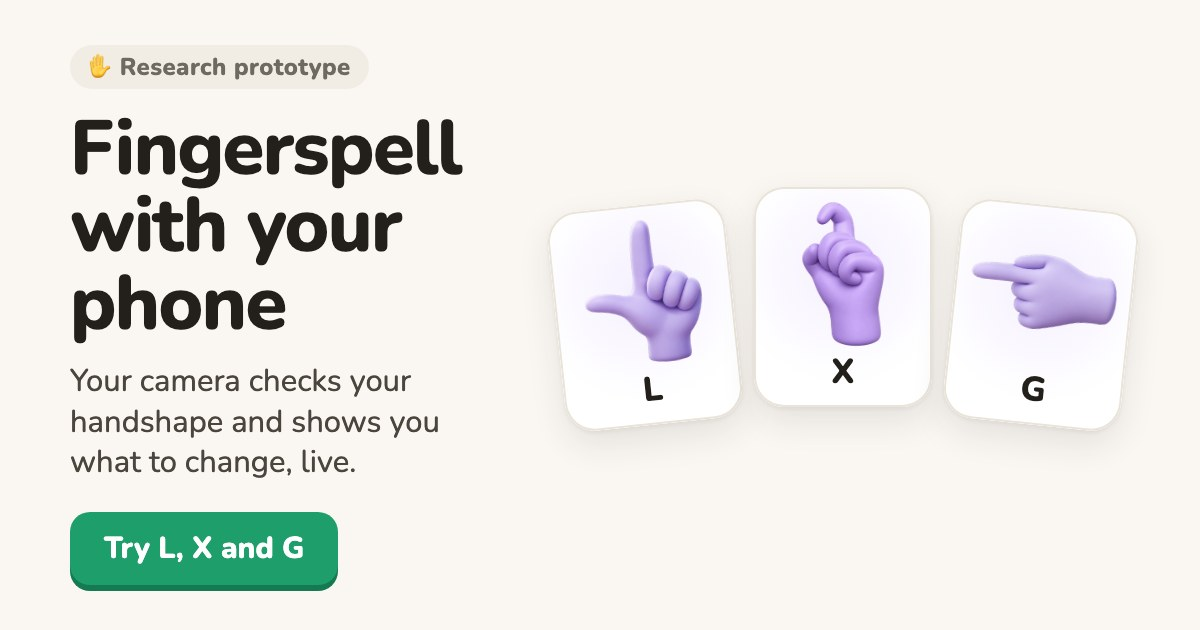
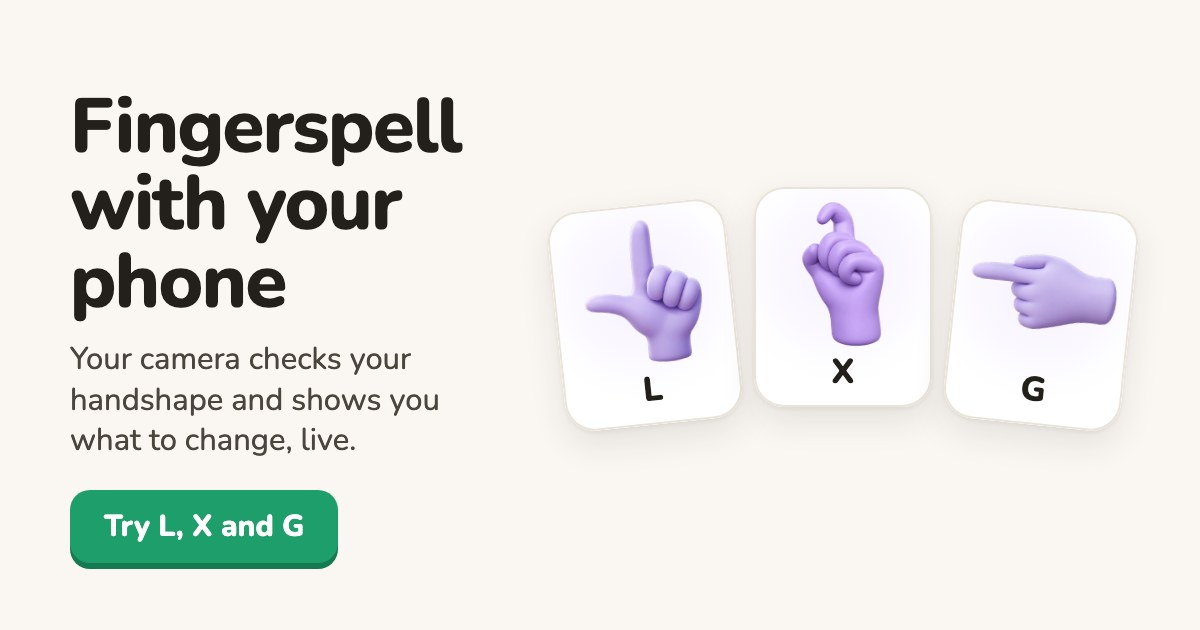
As of physical-tutor branch mobile 9ec5f9b: no Research prototype badge

Changed region(s): [[0.0308, 0.1508, 0.4008, 0.9651], [0.0617, 0.0905, 0.3083, 0.1206]]

diff --git a/index.html b/index.html
@@ -16,9 +16,9 @@
 <meta property="og:type" content="website">
 <meta property="og:site_name" content="Fingerspelling practice">
 <meta property="og:title" content="Fingerspell with your phone">
-<meta property="og:description" content="Your camera checks your handshape and shows you what to change, live. A research prototype: nothing is recorded or saved.">
+<meta property="og:description" content="Your camera checks your handshape and shows you what to change, live. Nothing is recorded or saved.">
 <meta property="og:url" content="https://shadowcoder1.github.io/asl-fingerspelling-mobile/">
-<meta property="og:image" content="https://shadowcoder1.github.io/asl-fingerspelling-mobile/mobile/share/og.jpg">
+<meta property="og:image" content="https://shadowcoder1.github.io/asl-fingerspelling-mobile/mobile/share/og.jpg?v=2">
 <meta property="og:image:width" content="1200">
 <meta property="og:image:height" content="630">
 <meta property="og:image:alt" content="Three purple glove hands making the letters L, X and G, beside the words Fingerspell with your phone.">
@@ -84,7 +84,6 @@ setTimeout(bootFail, 25000);
 <!-- 1. Welcome: what this is, and the one button. The hand tracker downloads while this is read. -->
 <section class="screen screen-welcome" id="welcome" aria-labelledby="welcome-title">
   <div class="welcome-inner">
-    <p class="pill"><span aria-hidden="true">✋</span> Research prototype</p>
     <div class="hero" id="hero" aria-hidden="true" data-default="LXG">
       <div class="hero-tile hero-glove"><img src="assets/gloves/L.png" alt="" fetchpriority="high"><b>L</b></div>
       <div class="hero-tile hero-glove"><img src="assets/gloves/X.png" alt="" fetchpriority="high"><b>X</b></div>
@@ -175,7 +174,7 @@ setTimeout(bootFail, 25000);
   <div class="results-cta">
     <button type="button" class="btn btn-primary" id="btn-again">Practice again</button>
     <button type="button" class="btn btn-secondary" id="btn-share">Share this demo</button>
-    <p class="fineprint">Research prototype: the grading is approximate and can be wrong. This teaches fingerspelling handshapes, not ASL; to learn ASL, learn from Deaf teachers.</p>
+    <p class="fineprint">The grading is approximate and can be wrong. This teaches fingerspelling handshapes, not ASL; to learn ASL, learn from Deaf teachers.</p>
   </div>
 </section>
 

diff --git a/mobile/index.html b/mobile/index.html
@@ -16,9 +16,9 @@
 <meta property="og:type" content="website">
 <meta property="og:site_name" content="Fingerspelling practice">
 <meta property="og:title" content="Fingerspell with your phone">
-<meta property="og:description" content="Your camera checks your handshape and shows you what to change, live. A research prototype: nothing is recorded or saved.">
+<meta property="og:description" content="Your camera checks your handshape and shows you what to change, live. Nothing is recorded or saved.">
 <meta property="og:url" content="https://shadowcoder1.github.io/asl-fingerspelling-mobile/">
-<meta property="og:image" content="https://shadowcoder1.github.io/asl-fingerspelling-mobile/mobile/share/og.jpg">
+<meta property="og:image" content="https://shadowcoder1.github.io/asl-fingerspelling-mobile/mobile/share/og.jpg?v=2">
 <meta property="og:image:width" content="1200">
 <meta property="og:image:height" content="630">
 <meta property="og:image:alt" content="Three purple glove hands making the letters L, X and G, beside the words Fingerspell with your phone.">
@@ -84,7 +84,6 @@ setTimeout(bootFail, 25000);
 <!-- 1. Welcome: what this is, and the one button. The hand tracker downloads while this is read. -->
 <section class="screen screen-welcome" id="welcome" aria-labelledby="welcome-title">
   <div class="welcome-inner">
-    <p class="pill"><span aria-hidden="true">✋</span> Research prototype</p>
     <div class="hero" id="hero" aria-hidden="true" data-default="LXG">
       <div class="hero-tile hero-glove"><img src="assets/gloves/L.png" alt="" fetchpriority="high"><b>L</b></div>
       <div class="hero-tile hero-glove"><img src="assets/gloves/X.png" alt="" fetchpriority="high"><b>X</b></div>
@@ -175,7 +174,7 @@ setTimeout(bootFail, 25000);
   <div class="results-cta">
     <button type="button" class="btn btn-primary" id="btn-again">Practice again</button>
     <button type="button" class="btn btn-secondary" id="btn-share">Share this demo</button>
-    <p class="fineprint">Research prototype: the grading is approximate and can be wrong. This teaches fingerspelling handshapes, not ASL; to learn ASL, learn from Deaf teachers.</p>
+    <p class="fineprint">The grading is approximate and can be wrong. This teaches fingerspelling handshapes, not ASL; to learn ASL, learn from Deaf teachers.</p>
   </div>
 </section>
 

diff --git a/mobile/app.css b/mobile/app.css
@@ -112,10 +112,6 @@ h1:focus { outline: none; }
 #btn-sound[aria-pressed="false"] .ico-sound-off { display: block; }
 
 /* ---- welcome ----------------------------------------------------------------------------------------------------- */
-.pill {
-  align-self: flex-start; margin: 0; padding: 4px 12px; border-radius: 999px;
-  background: var(--soft); color: var(--subtle); font-size: 0.8rem; font-weight: 800; letter-spacing: 0.03em;
-}
 .hero { display: flex; justify-content: center; align-items: flex-end; gap: 10px; min-height: 124px; margin: 4px 0 2px; }
 .hero-tile {
   position: relative; width: min(28%, 108px); aspect-ratio: 1 / 1.08; border-radius: 22px;
